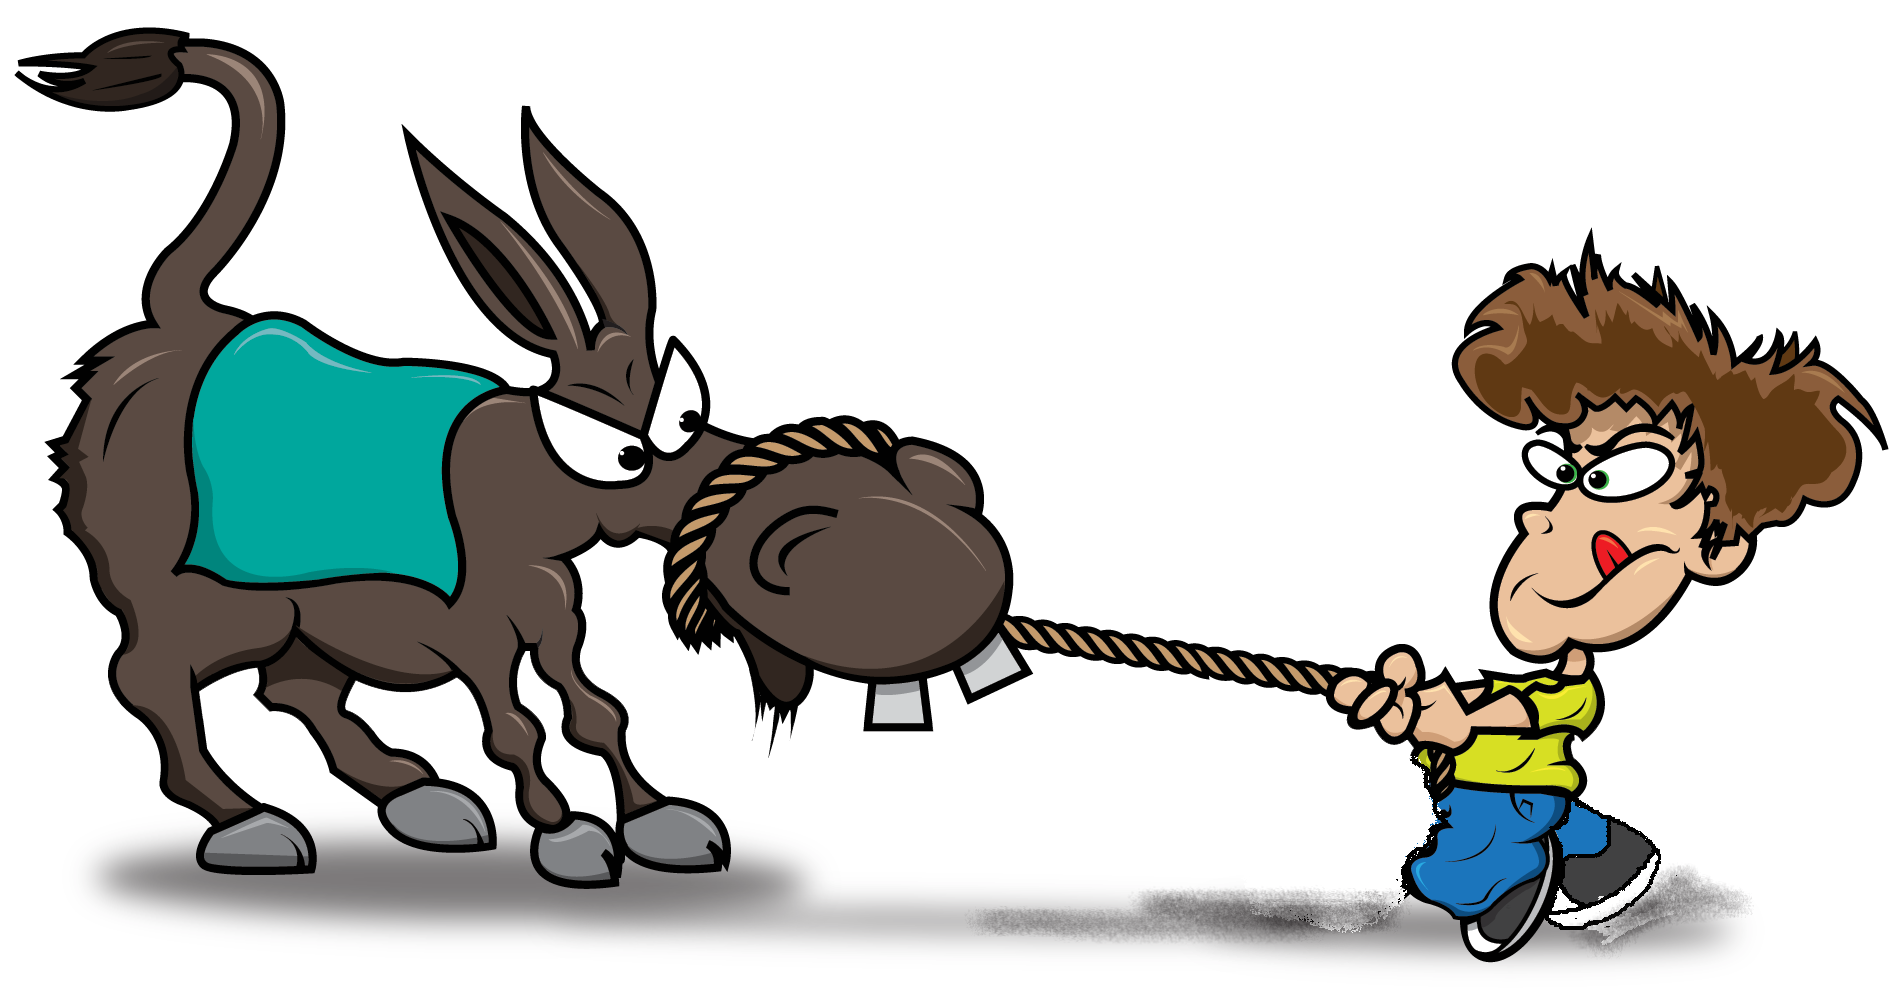
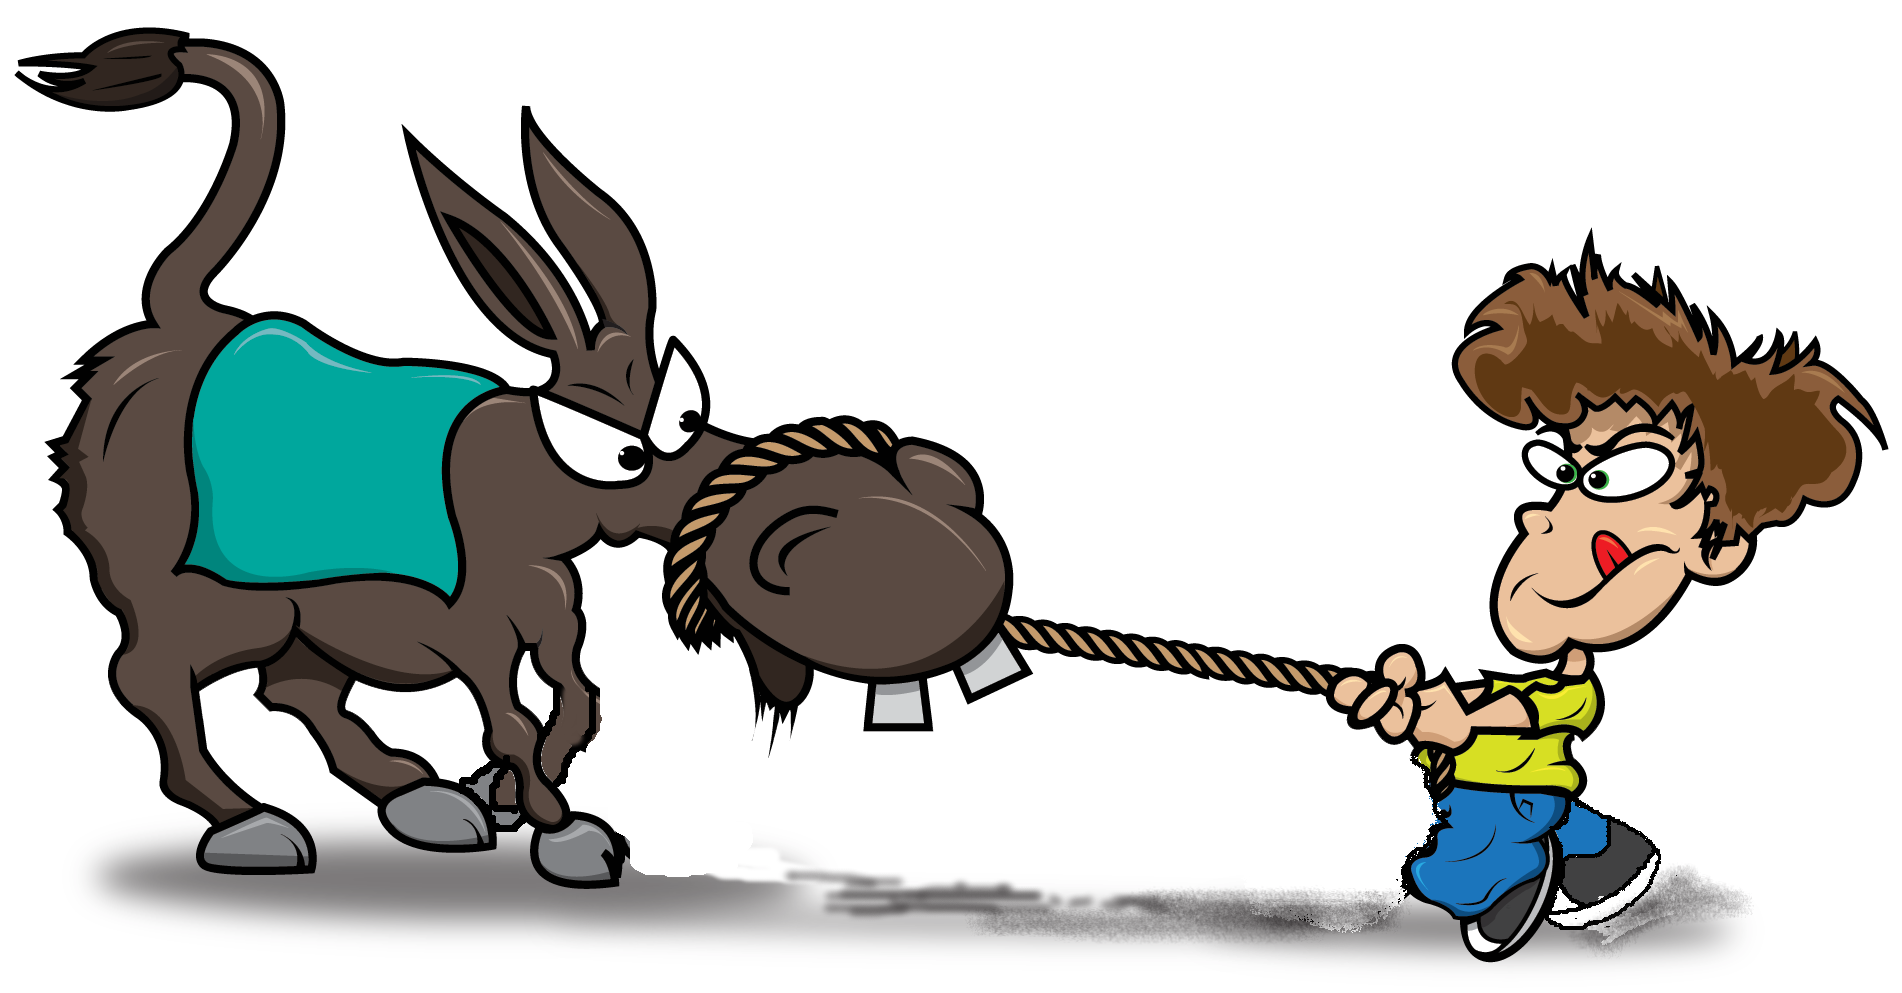
Made animation movement have smoother transitions

Changed region(s): [[0.2482, 0.6868, 0.6204, 0.9366]]

diff --git a/src/main/java/awktal/mule/TitleController.java b/src/main/java/awktal/mule/TitleController.java
@@ -51,8 +51,10 @@ public class TitleController extends SceneController {
 
 	final static Image MULE1 = new Image(TitleController.class.getResource("title/stubborn_mule.png").toExternalForm());
 	final static Image MULE2 = new Image(TitleController.class.getResource("title/stubborn_mule1.png").toExternalForm());
+	final static Image MULE3 = new Image(TitleController.class.getResource("title/stubborn_mule2.png").toExternalForm());
 	final ImageView MULE1IMG = new ImageView(MULE1);
 	final ImageView MULE2IMG = new ImageView(MULE2);
+	final ImageView MULE3IMG = new ImageView(MULE3);
 	private Group muleAnimation;
 
 	Shape muleText;
@@ -70,6 +72,8 @@ public class TitleController extends SceneController {
 	    MULE1IMG.fitHeightProperty().bind(gridpane.heightProperty());
 	    MULE2IMG.fitWidthProperty().bind(gridpane.widthProperty());
 	    MULE2IMG.fitHeightProperty().bind(gridpane.heightProperty());
+	    MULE3IMG.fitWidthProperty().bind(gridpane.widthProperty());
+	    MULE3IMG.fitHeightProperty().bind(gridpane.heightProperty());
 
 	    muleText = generateText();
 	    textAnimation = new Group(muleText);
@@ -106,6 +110,12 @@ public class TitleController extends SceneController {
 					@Override
 					public void handle(ActionEvent t) {
 						muleAnimation.getChildren().setAll(MULE2IMG);
+					}
+				}),
+				new KeyFrame(Duration.millis(300), new EventHandler<ActionEvent>() {
+					@Override
+					public void handle(ActionEvent t) {
+						muleAnimation.getChildren().setAll(MULE3IMG);
 					}
 				})
 			)
